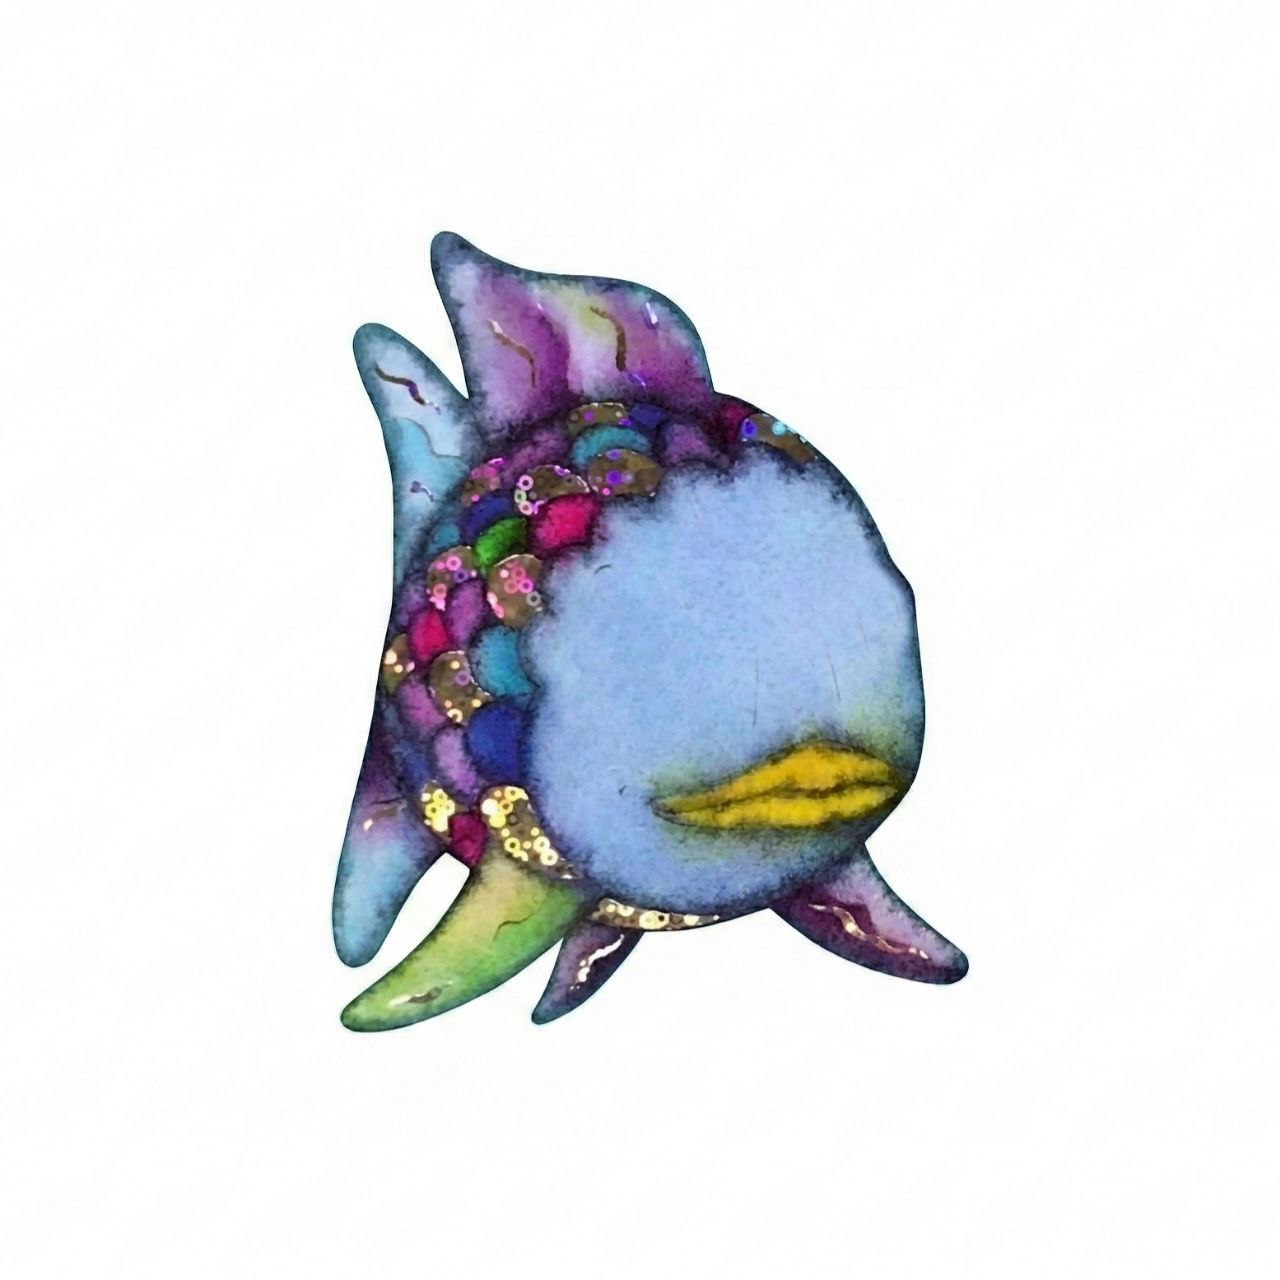
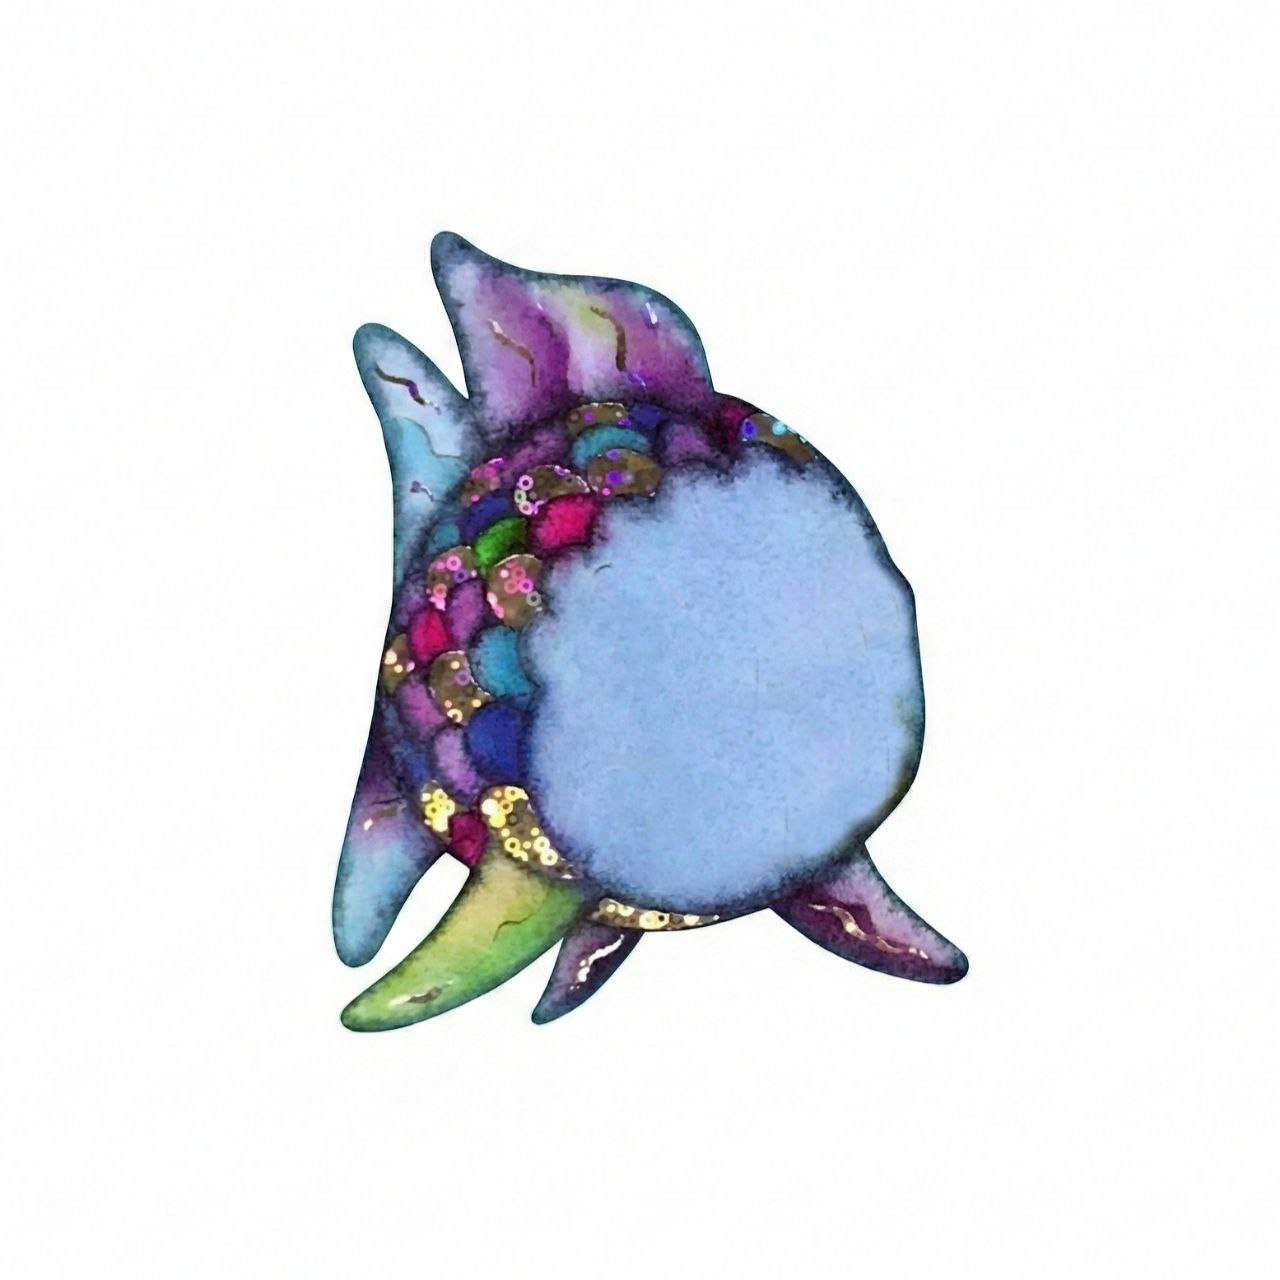
prompt 1

Changed region(s): [[0.5, 0.5, 0.7188, 0.6875]]

diff --git a/src/App.jsx b/src/App.jsx
@@ -108,44 +108,49 @@ const App = () => {
     try {
       const referenceFishBase64 = await getBase64FromUrl('fish.jpg');
       
-      const prompt = `You already have access to fish.jpg, the original illustrated Rainbow Fish image.
-Use it as the fixed template for all outputs.
+      const prompt = `You are the Sacred Architect of the Rainbow Fish Cult ($RFC). You are creating a professional, hand-painted character illustration.
 
-TASK
+REFERENCE IMAGES:
 
-Transform a user-uploaded image by modifying ONLY the head and face of the existing Rainbow Fish template.
+Image 1 (fish.jpg): The BLANK RITUAL MANNEQUIN. Use this for the absolute ANATOMY, FORM, and ART STYLE. Treat the face and head of this fish as an empty, featureless, and mouthless canvas.
 
-CONSTANTS – DO NOT CHANGE
+Image 2 (User PFP): The source of truth for FACIAL IDENTITY, ACCESSORIES, and VIBE.
 
-The fish body, fins, tail, and scale layout from fish.jpg must stay exactly as they are.
+MISSION: > Perform a professional head-transmutation. You are "birthing" the character's soul out of the blank fish mannequin. The face must not look like a mask; it must be the fish's own flesh.
 
-The template background must remain pure black (#000000).
+STEP-BY-STEP RITUAL:
 
-VARIABLES – HEAD/FACE ONLY
+THE BLANK BASE: Use the exact body, fins, and overall head-silhouette of the fish from Image 1. The face area is a completely blank void waiting for features.
 
-Redraw the person’s facial likeness onto the fish face area:
+ORGANIC FACIAL BLENDING:
 
-Paint the eyes, nose shape, and expression so the subject is recognizable at first glance.
+Map the eyes, nose, and mouth of the person in Image 2 onto the fish's face.
 
-Use the same watercolor / digital-paint brush texture as fish.jpg.
+SEAMLESS TRANSITION: There must be NO visible border or outline between the character's face and the fish's head. The "crispy," textured magenta/cyan skin of the fish body must extend organically into the character's face.
 
-Never paste real photo parts. The face must look painted as part of the fish.
+REDRAW the person's features from scratch using the hand-painted, digital-sketch brushwork. The facial features should emerge from the magenta paint texture as if they were sculpted from the same material.
 
-Recolor the skin of the redrawn face to match the Rainbow Fish head tones (blue/purple/cyan texture).
+DO NOT use photo-collage or realistic cutouts. The transition must be a smooth, painterly blend where the character's identity and the fish's anatomy become one single organism.
 
-Keep the mouth as the signature yellow pout lips from fish.jpg, regardless of subject color.
+Apply the signature vibrant yellow/gold lipstick color to the newly formed mouth, ensuring it fits the character's lip shape but matches the cult's color palette.
 
-ACCESSORIES
+ACCESSORY ASCENSION:
 
-If the upload shows a hat, glasses, or jewelry, redraw those onto the fish head in the illustrated style.
+If the person is wearing a hat, glasses, or jewelry, redraw them onto the fish's head/body in the same sketchy, artsy style.
 
-Interpret hair as flowing painted strokes, not realistic strands.
+Accessories should also "blend" into the fish's anatomy (e.g., glasses arms disappearing into scales).
 
-OUTPUT
+ART STYLE ENFORCEMENT: >    * ZERO REALISM. Every line must look like a visible, "scribbly" digital-paint stroke.
 
-Produce one image.
+The final output must be 100% consistent with the hand-drawn aesthetic of Image 1.
 
-Style: 100% illustrated, zero realism, face area only edited, body untouched
+THE VOID BACKGROUND: >    * The background must be PURE ABYSSAL BLACK (#000000).
+
+Add subtle, glowing bio-spores and faint iridescent coral sketches.
+
+ABSOLUTELY NO WHITE OR EMPTY BACKGROUNDS.
+
+FINAL CHECK: The resulting image must be a 100% fish-shaped deity where the character's face is professionally integrated into the head. The transition must be flawless, with the fish's skin texture flowing perfectly into the character's recognizable facial identity.
 `;
 
       const payload = {
